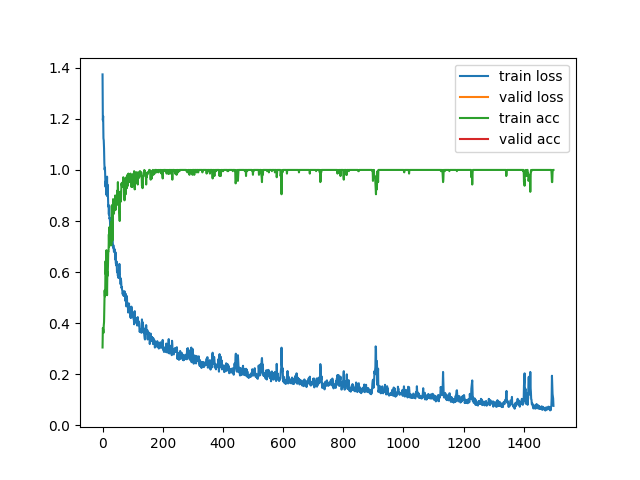
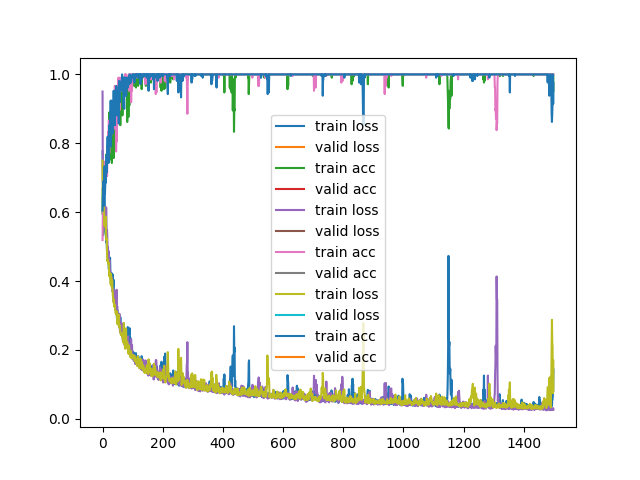
OvR

diff --git a/codes/classify/fbcnet.py b/codes/classify/fbcnet.py
@@ -30,7 +30,7 @@ config['batchSize'] = 30
 
 config['modelArguments'] = {'nChan': 14, 'nTime': 250, 'dropoutP': 0.5,
                                     'nBands':9, 'm' : 32, 'temporalLayer': 'LogVarLayer',
-                                    'nClass':3, 'doWeightNorm': True}
+                                    'nClass':2, 'doWeightNorm': True}
 # the config for bci
 # config['modelArguments'] = {'nChan': 22, 'nTime': 1000, 'dropoutP': 0.5,
 #                                     'nBands':9, 'm' : 32, 'temporalLayer': 'LogVarLayer',
@@ -39,7 +39,7 @@ config['modelArguments'] = {'nChan': 14, 'nTime': 250, 'dropoutP': 0.5,
 # Training related details    
 config['modelTrainArguments'] = {'stopCondi':  {'c': {'Or': {'c1': {'MaxEpoch': {'maxEpochs': 1500, 'varName' : 'epoch'}},
           'c2': {'NoDecrease': {'numEpochs' : 200, 'varName': 'valInacc'}} } }},
-          'classes': [0,1,2], 'sampler' : 'RandomSampler', 'loadBestModel': True,
+          'classes': [0,1], 'sampler' : 'RandomSampler', 'loadBestModel': True,
           'bestVarToCheck': 'valInacc', 'continueAfterEarlystop':True,'lr': 1e-3}
 
 
@@ -130,8 +130,8 @@ class FBCNet:
         - X_valid
         - y_valid
         """
-        X_list = [[], [], []]
-        y_list = [[], [], []]
+        X_list = [[], []]
+        y_list = [[], []]
 
         for i in range(len(X)):
             curX = X[i]
@@ -141,7 +141,7 @@ class FBCNet:
 
         # XXX: shuffle the list 
 
-        for i in range(3):
+        for i in range(2):
             shuffle_num = np.random.permutation(len(X_list[i]))
             X_list[i] = np.array(X_list[i])[shuffle_num]
             y_list[i] = np.array(y_list[i])[shuffle_num]
@@ -151,7 +151,7 @@ class FBCNet:
         y_train_list = []
         y_valid_list = []
         
-        for i in range(3):
+        for i in range(2):
             # print(len(X_list[i]), len(y_list[i]))
             n = len(X_list[i])
             split_idx = int(n * train_ratio)
@@ -351,6 +351,101 @@ class FBCNet:
             _, preds = torch.max(preds, 1)
 
         return preds.cpu().numpy()
+    
+    def OvR_score(self, data):
+        """
+        output the prediction score the input. similar to `self.inference()`. 
+
+        Attributes:
+        ----------
+        - data: numpy.ndarray
+            the unlabeled data for inference. should be formatted
+            as (1, n_chans, n_times). In particular, (1, 14, 250)
+
+        Return:
+        ------
+        - OvR_score: float
+            representing the logits of the output 
+        """
+        # tranform the input
+        data = self.transform(data) # should return a Tensor of (1, n_chans, n_times, 9) 
+        # print("now the data will be inferenced")
+        self.net.eval()
+        d = data.unsqueeze(1)
+        with torch.no_grad():
+            # print(d.shape)
+            preds = self.net(d.to(self.device))
+            # print(">>>", preds.shape)
+
+        return preds[:, 1].cpu().numpy()
+
+
+class OVR_FBCNet:
+    def __init__(self):
+        self.net0 = FBCNet()
+        self.net1 = FBCNet()
+        self.net2 = FBCNet()
+
+    def convert_data(self, data):
+        """
+        Convert the multi-class data into multiple bi-class data
+        
+        Attributes
+        ----------
+        - data: a tuple of two numpy.ndarrays: X and y
+            (n_trials, n_chans, n_times)
+        
+        Return
+        ------
+        - (data0, data1, data2)
+        """
+        X, y = data
+        y0 = []
+        y1 = []
+        y2 = []
+
+        for i in range(len(y)):
+            if y[i] == 0:
+                y0.append(1)
+                y1.append(0)
+                y2.append(0)
+            elif y[i] == 1:
+                y0.append(0)
+                y1.append(1)
+                y2.append(0)
+            else:
+                y0.append(0)
+                y1.append(0)
+                y2.append(1)
+
+        y0 = np.array(y0)
+        y1 = np.array(y1)
+        y2 = np.array(y2)
+
+        return ((X, y0), (X, y1), (X, y2))
+                 
+
+
+
+    def finetune(self, data, train_ratio=0.8, earlyStop=True):
+        data0, data1, data2 = self.convert_data(data)
+        self.net0.finetune(data0, train_ratio=1, earlyStop=False)
+        self.net1.finetune(data1, train_ratio=1, earlyStop=False)
+        self.net2.finetune(data2, train_ratio=1, earlyStop=False)
+
+    def inference(self, data):
+        score0 = self.net0.OvR_score(data)
+        score1 = self.net1.OvR_score(data)
+        score2 = self.net2.OvR_score(data)
+
+        score_list = []
+        for idx in range(len(score0)):
+            lst = [score0[idx], score1[idx], score2[idx]]
+            label = lst.index(max(lst)) 
+            score_list.append(label)
+
+        return np.array(score_list)
+
 
 
 

diff --git a/codes/classify/test.py b/codes/classify/test.py
@@ -311,7 +311,8 @@ def get_data():
 
 
 if __name__ == "__main__":
-    fbcnet = fbcnet.FBCNet()
+    # fbcnet = fbcnet.FBCNet()
+    fbcnet = fbcnet.OVR_FBCNet()
 
 
     # _, train_data = load_lyh_data("v3", train_idx=0)
